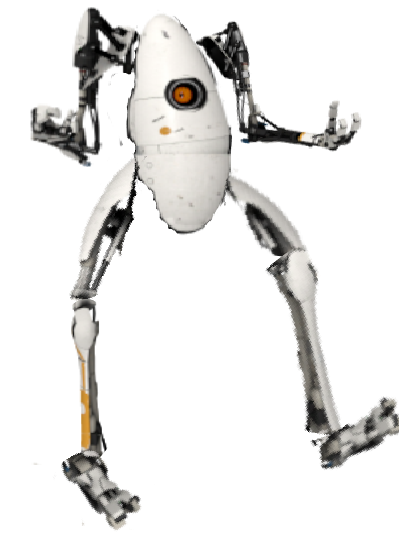
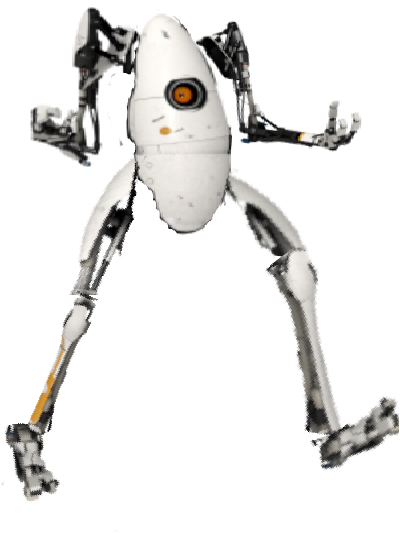
déplacement

Changed region(s): [[0.0, 0.5403, 0.36, 1.0]]

diff --git a/deathrun-portal/src/deathrun/portal/Player.java b/deathrun-portal/src/deathrun/portal/Player.java
@@ -38,7 +38,7 @@ public class Player extends PObject {
     
     int compteurdanimation = 1;    //compteur pour les animations de personnage
     long time_next_image;
-    long image_duration = 100000000;
+    long image_duration = 300000000;
     int lignedevue = 1;
     public static BufferedImage avatars[][];
     BufferedImage current_image;
@@ -80,6 +80,7 @@ public class Player extends PObject {
                     ImageIO.read(new File("./images/robotgauche.png")),
                     ImageIO.read(new File("./images/robotdgaucheex.png")),
                     ImageIO.read(new File("./images/robotsautgauche.png")),
+                    ImageIO.read(new File("./images/robotDead.png")),
                     
                 };
                 this.avatars[1] = new BufferedImage[]{
@@ -91,6 +92,7 @@ public class Player extends PObject {
                     ImageIO.read(new File("./images/tourellegauche2.png")),
                     ImageIO.read(new File("./images/tourellegauche3.png")),
                     ImageIO.read(new File("./images/tourellesautgauche.png")),
+                    ImageIO.read(new File("./images/robotDead.png")),
             
                  };
                 this.avatars[2] = new BufferedImage[]{
@@ -102,18 +104,24 @@ public class Player extends PObject {
                     ImageIO.read(new File("./images/tourellegauche2.png")),
                     ImageIO.read(new File("./images/tourellegauche3.png")),
                     ImageIO.read(new File("./images/tourellesautgauche.png")),
-            
+                    ImageIO.read(new File("./images/robotDead.png")),
                  };
+                this.avatars[3] = new BufferedImage[]{
+                    ImageIO.read(new File("./images/robotDead.png")),
+                    ImageIO.read(new File("./images/robotDead.png")),
+                    ImageIO.read(new File("./images/robotDead.png")),
+                };
+                //this.avatars[3] = new BufferedImageImageIO.read(new File("./images/robotDead.png"));
+                
                 //this.avatars[2] = ImageIO.read(new File("./images/robotOrange.png"));
-                //this.avatars[3] = ImageIO.read(new File("./images/robotDead.png"));
-//                this.robotBase = ImageIO.read(new File("robotbase.png"));    // rajouté par louis animation
-//                this.robotDr = ImageIO.read(new File("robotdroite.png"));    // rajouté par louis animation
-//                this.robotDrEx = ImageIO.read(new File("robotdroitee.png"));    // rajouté par louis animation
-//                this.robotSaut = ImageIO.read(new File("robotsaut.png"));    // rajouté par louis animation
-//                this.robotBasegauche = ImageIO.read(new File("robotbasegauche.png"));    // rajouté par louis animation
-//                this.robotgauche = ImageIO.read(new File("robotgauche.png"));    // rajouté par louis animation
-//                this.robotgaucheex = ImageIO.read(new File("robotdgaucheex.png"));    // rajouté par louis animation
-//                this.robotsautgauche = ImageIO.read(new File("robotsautgauche.png"));    // rajouté par louis animation
+                //this.robotBase = ImageIO.read(new File("robotbase.png"));    // rajouté par louis animation
+                //this.robotDr = ImageIO.read(new File("robotdroite.png"));    // rajouté par louis animation
+                //this.robotDrEx = ImageIO.read(new File("robotdroitee.png"));    // rajouté par louis animation
+                //this.robotSaut = ImageIO.read(new File("robotsaut.png"));    // rajouté par louis animation
+                //this.robotBasegauche = ImageIO.read(new File("robotbasegauche.png"));    // rajouté par louis animation
+                //this.robotgauche = ImageIO.read(new File("robotgauche.png"));    // rajouté par louis animation
+                //this.robotgaucheex = ImageIO.read(new File("robotdgaucheex.png"));    // rajouté par louis animation
+                //this.robotsautgauche = ImageIO.read(new File("robotsautgauche.png"));    // rajouté par louis animation
             } catch (IOException ex) {
                 Logger.getLogger(Game.class.getName()).log(Level.SEVERE, null, ex);
             }
@@ -188,47 +196,64 @@ public class Player extends PObject {
         
         long ac_time = System.nanoTime();
         if (ac_time > time_next_image)  {
-            if (left) { 
-                lignedevue =2;
+            if (avatar!=3){
+                if (left) { 
+                    lignedevue =2;
                 
-                if (compteurdanimation == 1){
-                    current_image = avatars[avatar][4];
-                    compteurdanimation = compteurdanimation + 1;
+                    if (compteurdanimation == 1){
+                        current_image = avatars[avatar][4];
+                        compteurdanimation = compteurdanimation + 1;
+                    }
+                    else if (compteurdanimation == 2){
+                        current_image = avatars[avatar][5];
+                        compteurdanimation = compteurdanimation + 1;
+                    }
+                    else if (compteurdanimation == 3){
+                        current_image = avatars[avatar][6];
+                        compteurdanimation = 1;
+                    }
+            
                 }
-                if (compteurdanimation == 2){
-                    current_image = avatars[avatar][5];
-                    compteurdanimation = compteurdanimation + 1;
+                if (right) { 
+                    lignedevue =1;
+                    if (compteurdanimation == 1){
+                        current_image = avatars[avatar][0];
+                        compteurdanimation++;
+                    }
+                    else if (compteurdanimation == 2){
+                        current_image = avatars[avatar][1];
+                        compteurdanimation++;
+                    }
+                    else if (compteurdanimation == 3){
+                        current_image = avatars[avatar][2];
+                        compteurdanimation = 1;
+                    }
+                
+            
                 }
-                if (compteurdanimation == 3){
-                    current_image = avatars[avatar][6];
-                    compteurdanimation = 1;
+                if (jump){
+                    if (lignedevue == 1){
+                        current_image = avatars[avatar][3];
+                    }
+                    if (lignedevue == 2) {
+                        current_image = avatars[avatar][7];
+                    }
+                }
+            }
+            if (avatar==3){
+                    if (compteurdanimation == 1){
+                        current_image = avatars[3][0];
+                        compteurdanimation++;
+                    }
+                    else if (compteurdanimation == 2){
+                        current_image = avatars[3][1];
+                        compteurdanimation++;
+                    }
+                    else if (compteurdanimation == 3){
+                        current_image = avatars[3][2];
+                        compteurdanimation = 1;
                 }
             
-            }
-            if (right) { 
-                lignedevue =1;
-                if (compteurdanimation == 1){
-                    current_image = avatars[avatar][0];
-                    compteurdanimation++;
-                }
-                if (compteurdanimation == 2){
-                    current_image = avatars[avatar][1];
-                    compteurdanimation++;
-                }
-                if (compteurdanimation == 3){
-                    current_image = avatars[avatar][2];
-                    compteurdanimation = 1;
-                }
-                
-            
-            }
-            if (jump){
-                if (lignedevue == 1){
-                    current_image = avatars[avatar][3];
-                }
-                if (lignedevue == 2) {
-                    current_image = avatars[avatar][7];
-                }
             }
             time_next_image = ac_time + image_duration;
         }
